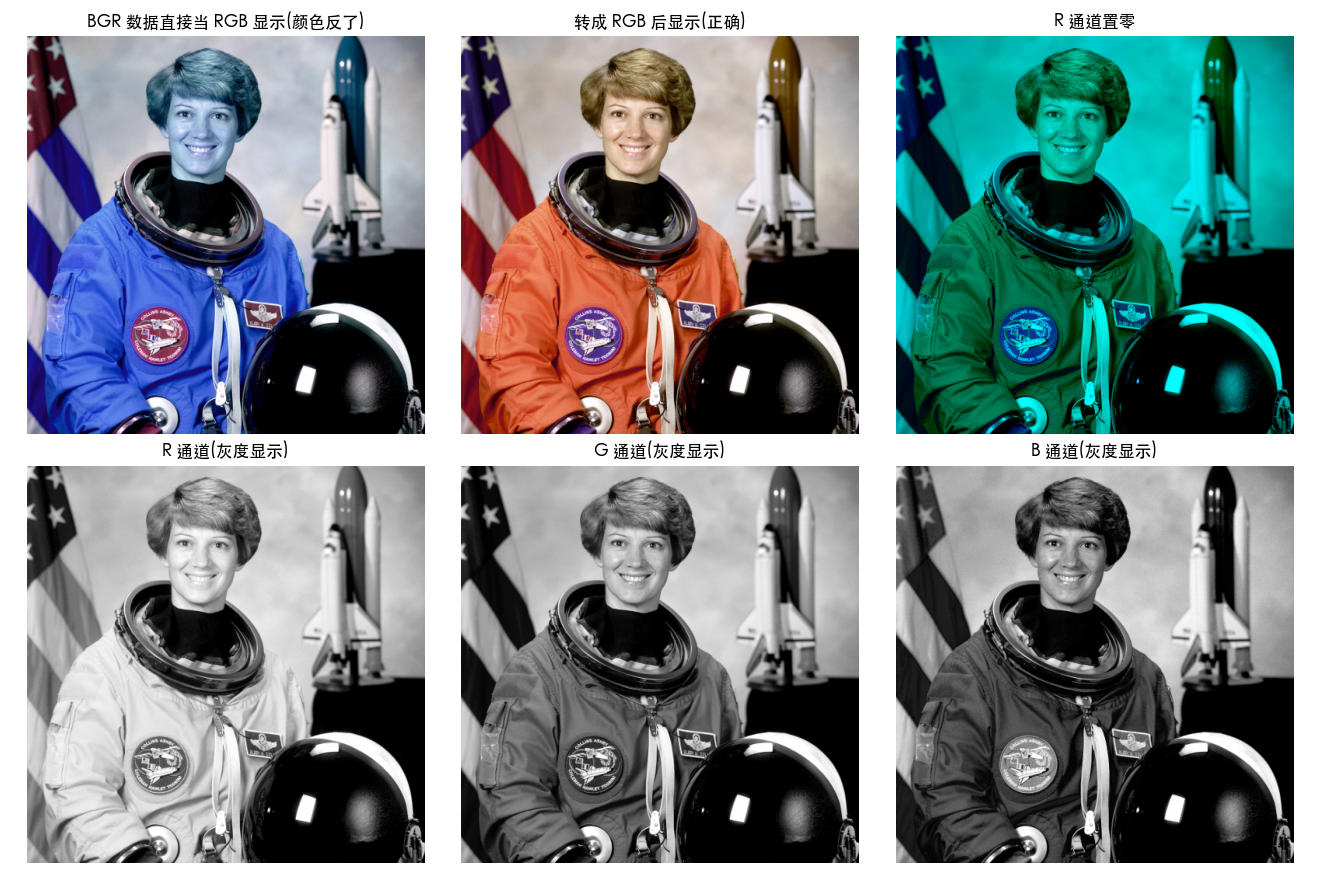
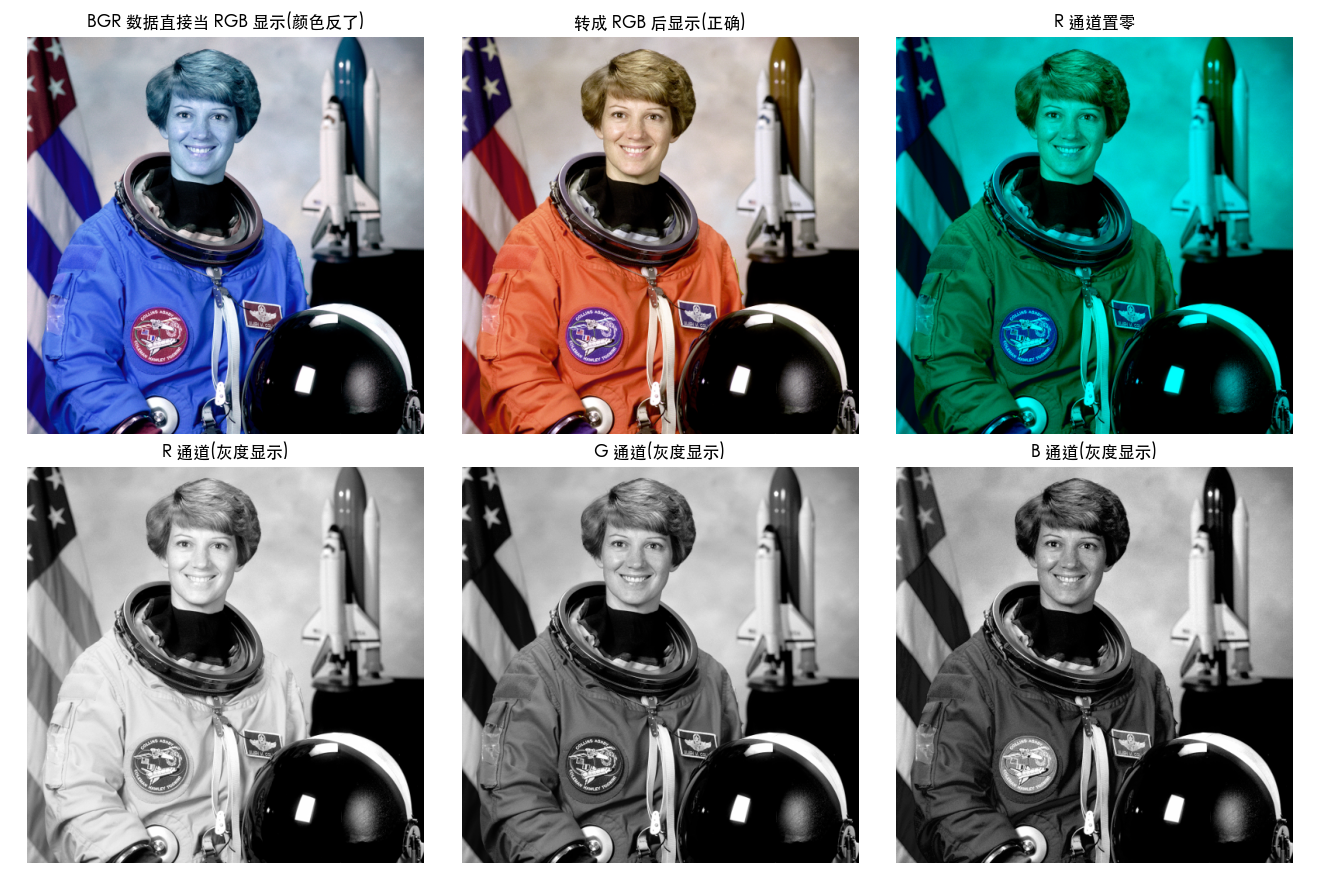
去掉 00_gray_image.py 里 zip 的 strict 参数(venv 是 3.9),并用当前环境重生成 week01 结果图

diff --git a/Python-Prototyping/Ch01_02_Fundamentals/00_gray_image.py b/Python-Prototyping/Ch01_02_Fundamentals/00_gray_image.py
@@ -117,7 +117,10 @@ def main() -> None:
         (cv2.cvtColor(bgr, cv2.COLOR_BGR2RGB), "原图 (BGR → RGB)"),
         (y_cv, "亮度 Y′ = 0.299R + 0.587G + 0.114B"),
     ]
-    for ax, (img, title) in zip(axes[:2], panels, strict=True):
+    # 这里想用 zip(..., strict=True) 保证两个列表等长,但本仓库的 venv 是
+    # Python 3.9,strict 参数 3.10 才有,3.9 下会直接 TypeError。
+    # panels 就在上面几行写死,长度一目了然,直接 zip 即可。
+    for ax, (img, title) in zip(axes[:2], panels):
         if img.ndim == 2:
             ax.imshow(img, cmap="gray", vmin=0, vmax=255)   # 灰度图必须给 vmin/vmax
         else:
